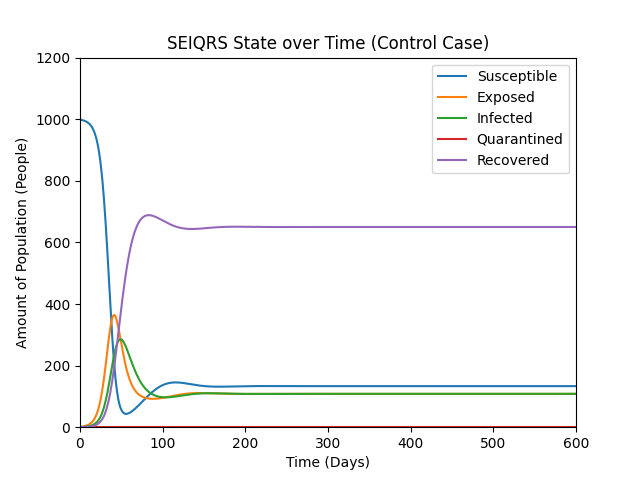
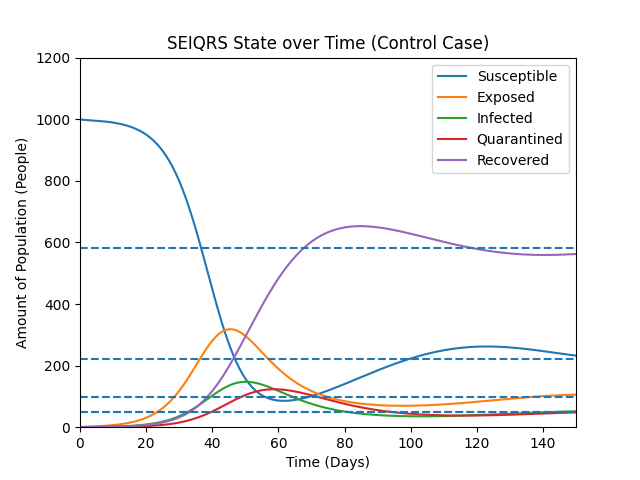
Save New Graphs

diff --git a/seiqrs.py b/seiqrs.py
@@ -5,7 +5,8 @@ from mpl_toolkits.mplot3d import axes3d
 from r_plot import r_plot
 
 # Test Case
-test_case = 'Test'
+test_case = 'Quarantine'
+print(f'Test Case: {test_case}')
 
 # Total population, N.
 N = 1000
@@ -13,8 +14,8 @@ N = 1000
 E0, I0, Q0, R0 = 0, 1, 0, 0
 # Everyone else, S0, is susceptible to infection initially.
 S0 = N - E0 - I0 - Q0 - R0 
-# Contact rate(beta), incubation period(phi, in 1/days), quarantine percentage(zeta), mean recovery rate in non-quarantine(gamma, in 1/days), mean recovery rate in quarantine(kappa, in 1/days), and immunity wearoff rate(mu, in 1/days).
-beta, phi, zeta, gamma, kappa, mu = 0.75, 1./10, 0.20, 1./10, 1./10, 1./60
+# Contact rate(beta), incubation period(phi, in 1/days), quarantine percentage(zeta, in 1/days), mean recovery rate in non-quarantine(gamma, in 1/days), mean recovery rate in quarantine(kappa, in 1/days), and immunity wearoff rate(mu, in 1/days).
+beta, phi, zeta, gamma, kappa, mu = 0.9, 1./10, (1./10)*1.3, 1./10, 1./10, (1./60)
 # A grid of time points (in days)
 t = np.linspace(0, 160*10, 160*10)
 
@@ -58,16 +59,18 @@ print(f'Se: {Se}, Ee: {Ee}, Ie: {Ie}, Qe: {Qe}, Re: {Re}')
 # plt.show()
 
 #Plot Stacked Area Graph
-# plt.xlim(0, 160*10)
-# plt.ylim(0, 1200)
-# plt.stackplot(t, E, I, Q, S, R, labels=['Exposed', 'Infected', 'Quarantined','Susceptible','Recovered'])
-# plt.legend(loc='upper right')
-# plt.xlabel('Time (Days)')
-# plt.ylabel('Amount of Population (People)')
-# plt.show()
+plt.xlim(0, 150)
+plt.ylim(0, 1200)
+plt.stackplot(t, E, I, Q, S, R, labels=['Exposed', 'Infected', 'Quarantined','Susceptible','Recovered'])
+plt.legend(loc='upper right')
+plt.title(f'Stacked SEIQRS States over Time ({test_case} Case)')
+plt.xlabel('Time (Days)')
+plt.ylabel('Amount of Population (People)')
+plt.savefig(f'pics\{test_case} Case_Stack.png')
+plt.show()
 
 #Plot Line Graph
-plt.xlim(0, 600)
+plt.xlim(0, 150)
 plt.ylim(0, 1200)
 plt.plot(t, S, label = "Susceptible")
 plt.plot(t, E, label = "Exposed")
